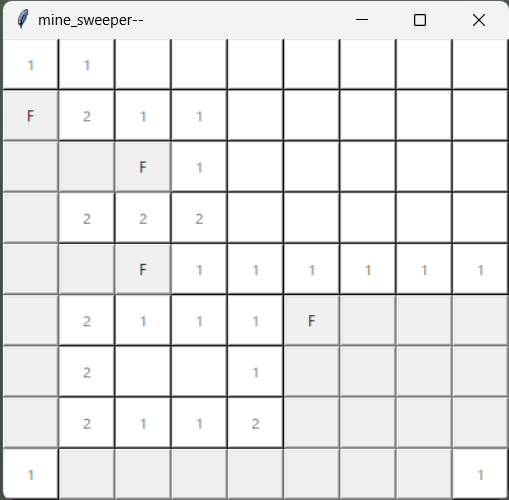
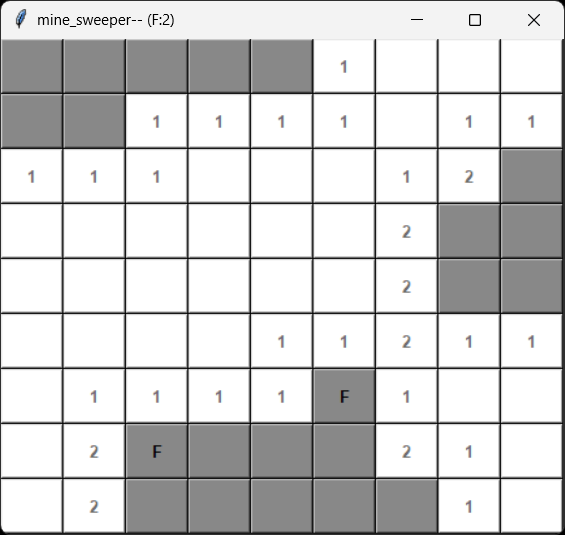
fix sudden issue, improve gui and tui

diff --git a/mine_sweeper.py b/mine_sweeper.py
@@ -1,18 +1,31 @@
 import random
+from enum import Enum
 
 from panel import BlankPanel, BombPanel, BorderPanel, Panel
 
 
+class Status(Enum):
+    UNINITIALIZED = 1
+    PLAYING = 2
+    WIN = 3
+    LOSE = 4
+
+
 class GameBoard:
-    def __init__(self, size_y: int, size_x: int, all_bomb_num: int):
-        self.mined: bool = False
+    def __init__(self, size_y: int, size_x: int, num_bomb: int):
         self.size_x: int = size_x
         self.size_y: int = size_y
         self.field_size_x: int = size_x + 2
         self.field_size_y: int = size_y + 2
         self.field: list[list[Panel]]
-        self.all_bomb_num: int = all_bomb_num
+        self.num_bomb: int = num_bomb
+        self.cursor_row: int = 1
+        self.cursor_col: int = 1
+        self.status: Status = Status.UNINITIALIZED
 
+        self.init_field()
+
+    def init_field(self):
         # Fill Panel
         field = []
         for _ in range(self.field_size_y):
@@ -28,33 +41,50 @@ class GameBoard:
             field[0][x] = BorderPanel()
             field[self.field_size_y - 1][x] = BorderPanel()
         self.field = field
-        # Set Bomb
-        self.set_bomb(self.all_bomb_num)
-        self.calc_bomb_num_gb()
+
+    def get_status(self) -> Status:
+        if self.status == Status.UNINITIALIZED:
+            return self.status
+        self.status = Status.WIN
+        for panel_row in self.field:
+            for p in panel_row:
+                if p.is_open and p.is_instance_of(BombPanel):
+                    self.status = Status.LOSE
+                    return Status.LOSE
+                if not p.is_open and p.is_instance_of(BlankPanel):
+                    self.status = Status.PLAYING
+        return self.status
 
     def new_game(self):
-        self.set_bomb(self.all_bomb_num)
-        self.calc_bomb_num_gb()
-        # close all panel
+        # reset all panel
         for row in range(1, self.size_y + 1):
             for col in range(1, self.size_x + 1):
-                self.field[row][col].is_open = False
+                self.field[row][col] = BlankPanel()
+        self.status = Status.UNINITIALIZED
 
-    def set_bomb(self, all_bomb_num: int):
+    def set_bomb(self, cursor_row: int = None, cursor_col: int = None):
         # Check bomb num is valid.
-        if all_bomb_num >= self.size_x * self.size_y:
+        if self.num_bomb >= self.size_x * self.size_y:
             raise ValueError
+        if cursor_row is None:
+            cursor_row = self.cursor_row
+        if cursor_col is None:
+            cursor_col = self.cursor_col
+
         # Set Mines
         bomb_counter = 0
-        while bomb_counter < all_bomb_num:
+        while bomb_counter < self.num_bomb:
             x = random.randint(1, self.size_x)
             y = random.randint(1, self.size_y)
+            if x == cursor_col and y == cursor_row:
+                continue
             if not self.field[y][x].is_instance_of(BombPanel):
                 self.field[y][x] = BombPanel()
                 bomb_counter += 1
-        self.mined = True
+        self.calc_bomb_values()
+        self.status = Status.PLAYING
 
-    def calc_bomb_num(self, y: int, x: int):
+    def calc_panel_bomb_value(self, y: int, x: int):
         bomb_num = 0
         for row in range(y - 1, y + 2):
             for col in range(x - 1, x + 2):
@@ -62,12 +92,12 @@ class GameBoard:
                     bomb_num += 1
         self.field[y][x].bomb_num = bomb_num
 
-    def calc_bomb_num_gb(self):
+    def calc_bomb_values(self):
         for row in range(1, self.size_y + 1):
             for col in range(1, self.size_x + 1):
                 panel = self.field[row][col]
                 if not panel.is_instance_of(BombPanel):
-                    self.calc_bomb_num(row, col)
+                    self.calc_panel_bomb_value(row, col)
 
     def __str__(self):
         board_text: str = ""
@@ -77,6 +107,26 @@ class GameBoard:
                 board_text += " "
             board_text += "\n"
         return board_text
+
+    def up(self):
+        self.cursor_row -= 1
+        if self.cursor_row < 1:
+            self.cursor_row = 1
+
+    def down(self):
+        self.cursor_row += 1
+        if self.cursor_row > self.size_y:
+            self.cursor_row = self.size_y
+
+    def right(self):
+        self.cursor_col += 1
+        if self.cursor_col > self.size_x:
+            self.cursor_col = self.size_x
+
+    def left(self):
+        self.cursor_col -= 1
+        if self.cursor_col < 1:
+            self.cursor_col = 1
 
     def user_input(self) -> (int, int):
         """
@@ -102,7 +152,7 @@ class GameBoard:
                 break
         return inputY, inputX
 
-    def open(self, row: int, col: int) -> bool:
+    def open(self, row: int = None, col: int = None) -> bool:
         """
         Open panel
 
@@ -112,17 +162,37 @@ class GameBoard:
         return:
             The game is alive or not
         """
+        if row is None:
+            row = self.cursor_row
+        if col is None:
+            col = self.cursor_col
+
+        # Set Bombs if not initialized
+        if self.status == Status.UNINITIALIZED:
+            self.set_bomb(row, col)
+
+        # Open Panel
+        safe_open = False
         panel = self.field[row][col]
         if panel.is_flagged:
-            return True
+            safe_open = True
         else:
             panel.is_open = True
             if panel.is_instance_of(BombPanel):
-                return False
+                safe_open = False
+                self.bomb_open()
             else:
-                return True
+                if panel.bomb_num == 0:
+                    self.cascade_open()
+                safe_open = True
+        self.get_status()
+        return safe_open
 
-    def flag(self, row: int, col: int):
+    def flag(self, row: int = None, col: int = None):
+        if row is None:
+            row = self.cursor_row
+        if col is None:
+            col = self.cursor_col
         self.field[row][col].flag()
 
     def open_around(self, y: int, x: int) -> int:

diff --git a/mine_sweeper_cui.py b/mine_sweeper_cui.py
@@ -1,0 +1,103 @@
+import curses as cs
+
+from mine_sweeper import GameBoard, Status
+
+white = 1
+red = 2
+red_r = 3
+
+
+class TUI:
+    def __init__(self, stdscr, num_row: int, num_col: int, num_bomb: int):
+        self.num_row = num_row
+        self.num_col = num_col
+        self.gb = GameBoard(num_row, num_col, num_bomb)
+        self.scr = stdscr
+        cs.noecho()
+        cs.cbreak()
+        cs.start_color()
+        cs.init_pair(white, cs.COLOR_WHITE, cs.COLOR_BLACK)
+        cs.init_pair(red, cs.COLOR_RED, cs.COLOR_BLACK)
+        cs.init_pair(red_r, cs.COLOR_BLACK, cs.COLOR_RED)
+        self.scr.keypad(True)
+
+    def cui_game(self):
+        # gb = self.gb
+        finished = False
+        while not finished:
+            while (
+                self.gb.status == Status.PLAYING
+                or self.gb.status == Status.UNINITIALIZED
+            ):
+                self.print_game()
+                cs.curs_set(0)
+                c = self.scr.getkey()
+                match c:
+                    case "q" | "Q":
+                        break
+                    case "KEY_DOWN":
+                        self.gb.down()
+                    case "KEY_UP":
+                        self.gb.up()
+                    case "KEY_LEFT":
+                        self.gb.left()
+                    case "KEY_RIGHT":
+                        self.gb.right()
+                    case "o" | "O":
+                        self.gb.open()
+                    case "f" | "F":
+                        self.gb.flag()
+                    case _:
+                        pass
+            self.print_game()
+            while True:
+                c = self.scr.getkey()
+                match c:
+                    case "c" | "C":
+                        finished = False
+                        self.gb.new_game()
+                        break
+                    case "q" | "Q":
+                        finished = True
+                        break
+                    case _:
+                        pass
+
+    def print_game(self):
+        self.scr.refresh()
+        gb = self.gb
+        for row, panel_row in enumerate(gb.field):
+            for col, p in enumerate(panel_row):
+                if row == gb.cursor_row and col == gb.cursor_col:
+                    if gb.status == Status.LOSE:
+                        c = "B"
+                        font = cs.color_pair(red_r)
+                    else:
+                        c = "@"
+                        font = cs.color_pair(red)
+                else:
+                    c = str(p)
+                    if c == "B":
+                        font = cs.color_pair(red)
+                    else:
+                        font = cs.color_pair(white)
+                self.scr.addstr(row, col * 2, c, font)
+        match (gb.status):
+            case Status.PLAYING | Status.UNINITIALIZED:
+                message = f"input <- ^v -> / O open / F flag {gb.count_flags()}"
+                font = cs.color_pair(white)
+            case Status.WIN:
+                message = "You Win!  Continue(C) or Quit(Q)"
+                font = cs.color_pair(white)
+            case Status.LOSE:
+                font = cs.color_pair(red)
+                message = "Game Over!  Continue(C) or Quit(Q)"
+        self.scr.addstr(self.num_row + 3, 0, message, font)
+
+
+def main(stdscr):
+    t = TUI(stdscr, 9, 9, 10)
+    t.cui_game()
+
+
+cs.wrapper(main)

diff --git a/mine_sweeper_gui.py b/mine_sweeper_gui.py
@@ -1,6 +1,6 @@
 import sys
 import tkinter as tk
-from tkinter import messagebox
+from tkinter import font, messagebox
 
 from mine_sweeper import GameBoard
 from panel import BombPanel
@@ -36,10 +36,11 @@ def refresh(button_mat: list[list[tk.Button]]):
                 button["fg"] = "black"
                 button["text"] = str(panel)
                 if panel.is_instance_of(BombPanel):
-                    button["bg"] = "#ff0000"
+                    button["bg"] = "#ff8888"
             elif panel.is_flagged:
                 button["text"] = "F"
             else:
+                button["bg"] = "#888888"
                 button["text"] = " "
 
 
@@ -54,7 +55,7 @@ def left_click(self, x, y, button_mat):
             flag_count = gb.count_flags()
             frame.master.title(f"mine_sweeper-- (F:{flag_count})")
         else:
-            gb.bomb_open()
+            # gb.bomb_open()
             refresh(button_mat)
             messagebox.showinfo("", "Game Over!")
             sys.exit()
@@ -82,7 +83,9 @@ for row in range(num_row):
     for col in range(num_col):
         x = col + 1
         y = row + 1
-        button = tk.Button(frame, text=" ", width=5, height=2)
+        button = tk.Button(
+            frame, text=" ", width=5, height=2, font=("Helvetica", 10, "bold")
+        )
         button.bind("<Button-1>", left_click(frame, x, y, button_mat))
         button.bind("<Button-2>", right_click(frame, x, y, button_mat))
         button.bind("<Button-3>", right_click(frame, x, y, button_mat))
@@ -90,4 +93,5 @@ for row in range(num_row):
         button_row.append(button)
     button_mat.append(button_row)
 
+refresh(button_mat)
 root.mainloop()

diff --git a/README.md b/README.md
@@ -1,15 +1,17 @@
 # mine_sweeper_py
 
 ![GUI image](gui_image.png)
-
+![CUI_image](cui_image.png)
 ## About this code
 
 This code is my Python programming practice.
 
-## CLI game
+## CUI game
 
 ```bash
-python mine_sweeper.py
+# If you are using Windows
+# pip install windows-curses
+python mine_sweeper_cui.py
 ```
 
 ## GUI game
@@ -17,6 +19,10 @@ python mine_sweeper.py
 ```bash
 python mine_sweeper_gui.py
 ```
+
+## Dependency
+
+- [windows-curses](https://github.com/zephyrproject-rtos/windows-curses) (windows only)
 
 ## Impression about Python
 
@@ -26,9 +32,9 @@ python mine_sweeper_gui.py
 
 ブロックに括弧を使わないので、行数が少なく見通しが良い。
 
-デフォルトの組込みの機能が豊富。GUIでさえ組込みで書ける。
+デフォルトの組込みの機能が豊富。TUI/GUI も組込みライブラリで書ける。
 
-実行環境の配布は面倒で、PyInstaller はバッドノウハウの塊になる。
+実行環境の配布は面倒で、PyInstaller はバッドノウハウが多い。
 
 普通のオブジェクト指向言語なので継承とかは普通に書ける。動的型判定ができるのが嬉しい。
 
